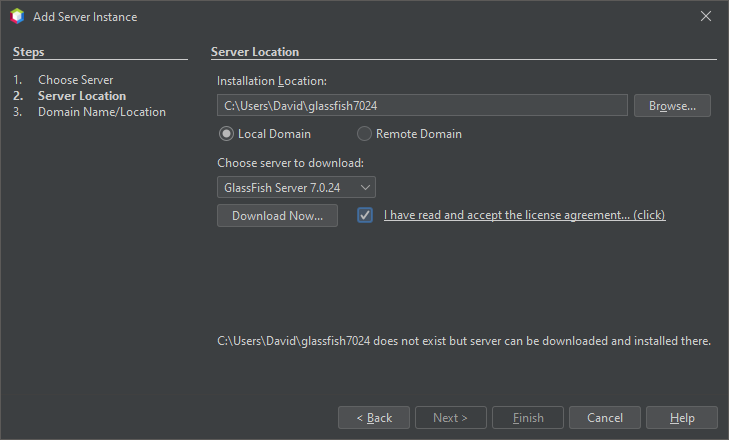
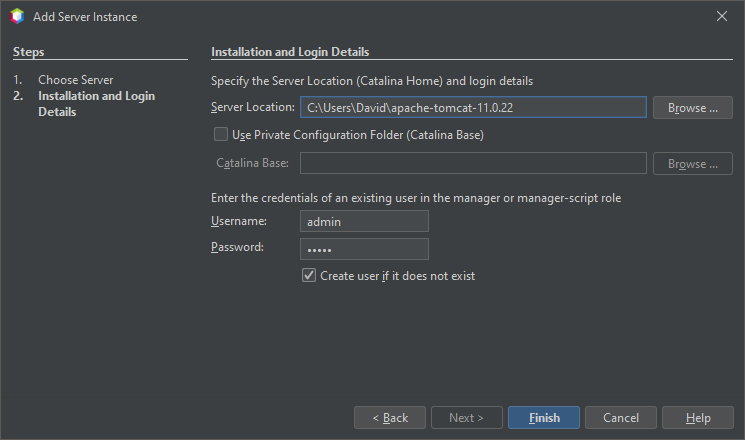
ajustes remoção glassfish

diff --git a/capitulo01JavaParaWeb.tex b/capitulo01JavaParaWeb.tex
@@ -95,14 +95,14 @@ Para que possamos utilizar código Java em nossas aplicações Web, recorremos a
 
 Muito bem. Sabemos então que se usarmos Java para desenvolver nossas aplicações Web, os componentes que são capazes de processar dados nas nossas aplicações e retornar resultados são os Servlets. Os Servlets são executados e gerenciados pelos Contêineres de Servlets, que funcionam como um Servidor Web simples, mas com alguns ``poderes'' a mais. Esses Contêineres também podem ser componentes de infraestruturas ainda mais robustas, que no caso são os Servidores de Aplicações. Um Servidor de Aplicações é como se fosse um Contêiner de Servlets com anabolizantes, pois além de implementar toda a especificação dos Servlets e as especificações ligadas a eles, esse tipo de servidor também implementa uma série de outras especificações da plataforma Jakarta EE (\textit{Enterprise Edition})\footnote{\url{https://jakarta.ee/}}, antigamente denominada Java EE, que fogem do propósito deste livro.
 
-Da mesma forma que existem navegadores e Servidores Web diferentes, adivinhe só, existem também Servidores de Aplicações e Contêineres de Servlets diferentes! Iremos utilizar a implementação de referência das especificações do Jakarta EE 10, que é feita pelo Servidor de Aplicações Eclipse GlassFish 7.0.24. Trabalharemos especificamente com essa versão, pois será a ideal para o que precisaremos fazer e que tem um melhor suporte no NetBeans. Quando estamos no mundo ``Java para Web'', várias dúvidas surgem o tempo todo, visto que existe uma infinidade de termos diferentes e que normalmente causam confusão, além de existir um ecossistema absurdamente vasto. Na próxima seção vamos aprender mais alguns detalhes teóricos e na última seção vamos realizar algumas atividades!
+Da mesma forma que existem navegadores e Servidores Web diferentes, adivinhe só, existem também Servidores de Aplicações e Contêineres de Servlets diferentes! Iremos utilizar a implementação de referência das especificações do Jakarta EE 11, que é feita pelo Contêiner de Servetls Apache Tomcat 11. Nesta edição do livro utilizaremos a versão 11.0.22, mas pode ser que na época que você estiver seguindo este material, novas versões menores da 11 possam estar disponíveis, como por exemplo 11.0.23, sendo assim, desde que você se mantenha na versão 11, não haverá nenhum problema. Trabalharemos especificamente com essa versão, pois será a ideal para o que precisaremos fazer e que tem um melhor suporte no NetBeans. Quando estamos no mundo ``Java para Web'', várias dúvidas surgem o tempo todo, visto que existe uma infinidade de termos diferentes e que normalmente causam confusão, além de existir um ecossistema absurdamente vasto. Na próxima seção vamos aprender mais alguns detalhes teóricos e na última seção vamos realizar algumas atividades!
 
 
 \section{Servlets e JSPs}
 
 Um carro serve para dirigir. Uma televisão para assistir. Uma sandália para andar. Cada um tem suas características e vão evoluindo com o tempo. Há muito tempo, quando foi inventada a televisão, a imagem que era gerada não era muito boa e era em preto e branco. Foram passando os anos e a indústria foi evoluindo o equipamento. Primeiro a imagem melhorou, depois colocaram cores, depois foram criando telas cada vez maiores, mais finas, com maior resolução, inventaram outras formas de emitir imagens, gastar menos energia elétrica e assim por diante. E daí?
 
-Tudo evolui. O que não evolui é descartado e/ou substituído. A primeira especificação dos Servlets foi lançada em 1997 e de lá para cá, a especificação foi evoluindo, permitindo que os Servlets se tornassem componentes mais versáteis e mais fáceis de utilizar. Na versão 7.0.24 do Eclipse GlassFish (perfil \textit{Web}) que implementa as especificações do Jakarta EE 10 (perfil \textit{Web}), é implementada a especificação 6.0 dos Servlets, a especificação 3.1 das JSPs (JavaServer Pages), entre outras.
+Tudo evolui. O que não evolui é descartado e/ou substituído. A primeira especificação dos Servlets foi lançada em 1997 e de lá para cá, a especificação foi evoluindo, permitindo que os Servlets se tornassem componentes mais versáteis e mais fáceis de utilizar. Na versão 11.0.22 do Apache Tomcat, que implementa as especificações do Jakarta EE 11, é implementada a especificação 6.1 dos Servlets, a especificação 6.1 das JSPs (JavaServer Pages), entre outras.
 
 Já aprendemos que os Servlets são componentes de uma aplicação Web feita em Java e que têm a capacidade de processar dados enviados a eles e gerar respostas. Um Servlet pode gerar como resposta o código HTML de uma página, entretanto essa abordagem era utilizada nas versões mais antigas dos Servlets e é totalmente desencorajada hoje em dia. Como eu disse agora há pouco, tudo evolui. Para que os desenvolvedores não precisassem mais gerar código HTML dentro do código Java de um Servlet, foram inventadas as páginas JSP. Uma página JSP é um arquivo que pode conter –e geralmente contém– código HTML e que pode interagir diretamente com algumas funcionalidades de uma aplicação Web.
 
@@ -113,7 +113,7 @@ Por causa desse comportamento de tradução das JSPs para Servlets, nós podemos
 
 \section{Preparação do Ambiente de Desenvolvimento}
 
-Nesta seção você aprenderá a instalar e configurar a IDE Apache NetBeans e o Servidor de Aplicações Eclipse GlassFish 7.0.24 (perfil \textit{Web}).
+Nesta seção você aprenderá a instalar e configurar a IDE Apache NetBeans e o Contêiner de Servlets Apache Tomcat 11.0.22.
 
 
 \subsection{Apache NetBeans}
@@ -122,20 +122,44 @@ Você conhece a linguagem Java, aprendeu a teoria e a prática da programação 
 
 \begin{enumerate}
 
-    \item Acesse o endereço: \url{https://github.com/Friends-of-Apache-NetBeans/netbeans-installers/releases/download/v30-build1/Apache-NetBeans-30.exe};
-
+    \item Acesse o endereço: \url{https://github.com/codelerity/netbeans-packages/releases/download/v30-build1/Apache-NetBeans-30.exe};
+    
     \item Ao acessar esse \textit{link}, a versão 30 do Apache NetBeans será baixada;
     
-    \item Baixou? Execute o instalador. As versões atuais dos instaladores NetBeans farão a instalação completa da IDE. Basta seguir o assistente, escolher o JDK instalado (recomendo o 17, 21 ou 25) e aguardar o fim da instalação.
+    \item Baixou? Execute o instalador. As versões atuais dos instaladores NetBeans farão a instalação completa da IDE, bastando seguir o assistente. Essa versão em questão trará uma versão do JDK consigo, no caso, a versão 26. Aguarde o fim da instalação e vamos continuar.
     
 \end{enumerate}
 
-Com o NetBeans instalado, abra-o. Caso o esteja executando pela primeira vez, uma página de boas-vindas será exibida. Você pode fechá-la se quiser, além de marcar para que não seja exibida novamente. Antes de criarmos o nosso primeiro projeto Java Web, precisamos baixar, instalar e configurar o Servidor de Aplicações Eclipse GlassFish.
+Com o NetBeans instalado, abra-o. Caso o esteja executando pela primeira vez, uma página de boas-vindas será exibida. Você pode fechá-la se quiser, além de marcar para que não seja exibida novamente. Antes de criarmos o nosso primeiro projeto Java Web, precisamos baixar, instalar e configurar Contêiner de Servlets Apache Tomcat.
 
 
-\subsection{Eclipse GlassFish}
+\subsection{Apache Tomcat}
 
-Como já dito, iremos instalar a versão 7.0.24 do Eclipse GlassFish. Iremos realizar o download e a instalação dentro do NetBeans 30. Com o NetBeans aberto, do lado esquerdo, clique na aba \textit{Services}. Nessa aba, há um nó chamado \destaque{\textit{Servers}}. Clique com o botão direito do mouse nele e escolha \destaque{\textit{Add Server...}}. Veja a Figura~\ref{fig:cap01Servers}.
+Como já dito, iremos instalar a versão 11.0.22 do Apache Tomcat. Para isso, primeiramente precisamos baixá-lo. Comece acessando o endereço \url{https://tomcat.apache.org/}. Do lado esquerdo, no menu, na seção \textit{Download}, escolha a versão 11 (Tomcat 11 - \url{https://tomcat.apache.org/download-11.cgi}). Logo abaixo, em \textit{Binary Distributions}, baixe a versão \textbf{Windows zip} se estiver usando Windows (seta vermelha na Figura~\ref{fig:cap01DownloadTomcat}) ou somente \textbf{zip} se estiver usando Linux ou outro sistema operacional baseado em UNIX (seta verde na Figura~\ref{fig:cap01DownloadTomcat}).
+
+\FloatBarrier
+\begin{figure}[!htbp]
+    \centering
+    \caption{Opções de download do Apache Tomcat}
+    \includegraphics[scale=0.7]{imagens/cap01DownloadTomcat}
+    \\\textbf{Fonte:} Elaborada pelo autor
+    \label{fig:cap01DownloadTomcat}
+\end{figure}
+\FloatBarrier
+
+Escolha onde quer salvar o arquivo e descompacte-o. No meu caso, como estou usando Windows, baixei o arquivo, salvei na minha pasta de usuário e o descompactei, ficando com o caminho \texttt{C:\textbackslash Users\textbackslash David\textbackslash apache-tomcat-11.0.22}. Veja na Figura~\ref{fig:cap01TomcatDescompactado}.
+
+\FloatBarrier
+\begin{figure}[!htbp]
+    \centering
+    \caption{Apache Tomcat descompactado}
+    \includegraphics[scale=0.7]{imagens/cap01TomcatDescompactado}
+    \\\textbf{Fonte:} Elaborada pelo autor
+    \label{fig:cap01TomcatDescompactado}
+\end{figure}
+\FloatBarrier
+
+Agora que estamos com o Tomcat baixado e descompactado, vamos registrá-lo no NetBeans. Com o NetBeans aberto, do lado esquerdo, clique na aba \textit{Services}. Nessa aba, há um nó chamado \destaque{\textit{Servers}}. Clique com o botão direito do mouse nele e escolha \destaque{\textit{Add Server...}}. Veja a Figura~\ref{fig:cap01Servers}.
 
 \FloatBarrier
 \begin{figure}[!htbp]
@@ -147,7 +171,7 @@ Como já dito, iremos instalar a versão 7.0.24 do Eclipse GlassFish. Iremos rea
 \end{figure}
 \FloatBarrier
 
-Ao clicar em \destaque{\textit{Add Server...}} o assistente para registrar o servidor no NetBeans aparecerá. No primeiro passo, mostrado na Figura~\ref{fig:cap01AddServerP01}, na lista de servidores suportados, escolha \destaque{\textit{GlassFish Server}}. Na caixa de texto \destaque{\textit{Name:}} edite o nome da instância do servidor. No meu caso, adicionei a versão do mesmo, ficando ``GlassFish Server 7.0.24''. Ao fazer isso, clique em \destaque{\textit{Next >}}.
+Ao clicar em \destaque{\textit{Add Server...}} o assistente para registrar o servidor no NetBeans aparecerá. No primeiro passo, mostrado na Figura~\ref{fig:cap01AddServerP01}, na lista de servidores suportados, escolha \destaque{\textit{Apache Tomcat or TomEE}}. Na caixa de texto \destaque{\textit{Name:}} edite o nome da instância do servidor. No meu caso, adicionei a versão do mesmo, ficando ``Apache Tomcat 11.0.22''. Ao fazer isso, clique em \destaque{\textit{Next >}}.
 
 \FloatBarrier
 \begin{figure}[!htbp]
@@ -159,7 +183,7 @@ Ao clicar em \destaque{\textit{Add Server...}} o assistente para registrar o ser
 \end{figure}
 \FloatBarrier
 
-O segundo passo do assistente precisamos definir onde os arquivos do servidor ficarão, como apresentado na Figura~\ref{fig:cap01AddServerP02}. Nesse passo, clique no botão \destaque{\textit{Browse...}} e defina onde a instalação ficará. No meu caso, escolhi a pasta \texttt{glassfish7024} dentro da pasta do meu usuário. Recomendo que você faça o mesmo. Deixa a opção \destaque{\textit{Local Domain}} selecionada, escolha a versão do servidor para download (GlassFish Server 7.0.24), marque a opção ``\textit{I have read...}'' e clique em \destaque{\textit{Download Now}}. Ao finalizar o download, uma mensagem logo abaixo do assistente indicará que foi encontrada uma instalação do servidor no local escolhido, então basta clicar em \destaque{\textit{Next >}} para realizarmos o terceiro e último passo do assistente.
+No segundo passo do assistente precisamos definir onde os arquivos do Tomcat estão, como apresentado na Figura~\ref{fig:cap01AddServerP02}. Nesse passo, clique no botão \destaque{\textit{Browse...}} e defina onde a instalação está. No meu caso, escolhi a pasta \texttt{apache-tomcat-11.0.22} dentro da pasta do meu usuário, como já expliquei anteriormente. Recomendo que você faça o mesmo. Preencha o campo \destaque{\textit{Username}} com \texttt{admin} e o campo \destaque{\textit{Password}} com \texttt{admin} também, além de marcar a opção \destaque{\textit{Create user if it does not exist}}. Isso fará com que o NetBeans configure o usuário administrador do Tomcat. Nós não precisaremos disso durante o livro, mas é bom deixar resolvido. Você pode também definir o usuário e senha que quiser, mas recomendo seguir o que eu fiz para não ter problemas depois de esquecer esses dados, caso seja necessário. Clique em \destaque{\textit{Finish}}.
 
 \FloatBarrier
 \begin{figure}[!htbp]
@@ -171,23 +195,7 @@ O segundo passo do assistente precisamos definir onde os arquivos do servidor fi
 \end{figure}
 \FloatBarrier
 
-Nesse passo, faremos a última configuração necessária, que consiste apenas em definir o nome do usuário administrador do servidor. Na Figura~\ref{fig:cap01AddServerP03} isso pode ser visto na caixa de texto \destaque{\textit{User Name:}} que está preenchida com ``admin''. Ao preencher o nome de usuário, clique em \destaque{\textit{Finish}}.
-
-\FloatBarrier
-\begin{figure}[!htbp]
-    \centering
-    \caption{Registrando um servidor no NetBeans - Passo 3}
-    \includegraphics[scale=0.7]{imagens/cap01AddServerInstanceP03}
-    \\\textbf{Fonte:} Elaborada pelo autor
-    \label{fig:cap01AddServerP03}
-\end{figure}
-\FloatBarrier
-
-Ao fazer isso, o GlassFish estará quase pronto para ser utilizado. A última coisa que precisaremos fazer é copiar o \textit{Driver Java Database Conectivity} (JDBC) do Sistema Gerenciador de Banco de Dados (SGBD) MariaDB/MySQL que usaremos nos próximos capítulos deste livro.
-
-Para isso, baixe o arquivo acessível através do \textit{link} \url{https://repo1.maven.org/maven2/org/mariadb/jdbc/mariadb-java-client/3.5.6/mariadb-java-client-3.5.6.jar} e, ao terminar de baixar, copie-o para o diretório \texttt{C:\textbackslash Users\textbackslash SeuUsuario\textbackslash glassfish7024\\\textbackslash glassfish\textbackslash domains\textbackslash domain1\textbackslash lib\textbackslash}. Agora sim, tudo pronto!
-
-Caso haja alguma dúvida, visite o \textit{link} mencionado que contém uma playlist de tutoriais para a configuração de ambientes de desenvolvimento.
+Ao fazer isso, o Tomcat estará pronto para ser utilizado. Caso haja alguma dúvida, visite o \textit{link} mencionado que contém uma playlist de tutoriais para a configuração de ambientes de desenvolvimento.
 
 
 \subsection{Primeiro Projeto Java para Web}\label{subsec:primeiroProjeto}
@@ -200,7 +208,7 @@ Agora que temos tudo configurado, iremos criar nosso primeiro projeto Java para 
     
     \item \textbf{Passo 2:} Preencha o campo \destaque{\textit{Project Name:}} com ``OlaMundoWeb'' (sem acentos, sem as aspas e tudo junto). Em \destaque{\textit{Project Location:}}, defina o diretório onde o projeto será salvo. Deixe a opção \destaque{\textit{Use Dedicated Folder for Storing Libraries}} marcada e clique no botão \destaque{\textit{Next >}};
     
-    \item \textbf{Passo 3:} Na opção \destaque{\textit{Server:}} escolha o ``GlassFish Server 7.0.24'', ou a opção com o nome que você definiu ao registrar o GlassFish. Em \destaque{\textit{Java EE Version:}} escolha ``Jakarta EE 10 Web''. Em \destaque{\textit{Context Path:}} deixe o valor padrão (/OlaMundoWeb), que é o mesmo nome que demos ao nosso projeto. Clique em \destaque{\textit{Next >}};
+    \item \textbf{Passo 3:} Na opção \destaque{\textit{Server:}} escolha o ``Apache Tomcat 11.0.22'', ou a opção com o nome que você definiu ao registrar o Tomcat. Em \destaque{\textit{Java EE Version:}} escolha ``Jakarta EE 11 Web''. Em \destaque{\textit{Context Path:}} deixe o valor padrão (/OlaMundoWeb), que é o mesmo nome que demos ao nosso projeto. Clique em \destaque{\textit{Next >}};
     
     \item \textbf{Passo 4:} No último passo, o assistente perguntará quais \textit{frameworks} nós queremos inserir no nosso projeto. Nós não vamos usar nenhum, então basta clicar em \destaque{\textit{Finish}}. Fazendo isso, o novo projeto será criado e será aberto no NetBeans, sendo que por padrão será criado um arquivo HTML (\texttt{index.html}) que será a página inicial da nossa aplicação.
     
@@ -210,7 +218,7 @@ Agora que temos tudo configurado, iremos criar nosso primeiro projeto Java para 
     Existem diversas definições para \textit{framework}, sendo que, informalmente, podemos defini-los como um conjunto de classes que incorporam uma abstração que tem como objetivo de solucionar problemas de um tipo ou domínio específico.
 \end{saibaMais}
 
-Muito bem, criamos nosso primeiro projeto. Vamos executá-lo para ver o que acontece? Na barra de ferramentas do NetBeans tem um botão com uma seta verde, igual a um botão de ``\textit{play}'' de um reprodutor de mídias. Quando você clicar nesse botão, você vai ver que várias mensagens começarão a aparecer na janela de saída do NetBeans. Essas mensagens irão mostrar para nós o que está acontecendo no momento, como a inicialização do GlassFish (caso não esteja iniciado) etc. O que está esperando? Clique lá no ``\textit{play}''. Assim que tudo estiver pronto, será aberta uma janela do seu navegador, onde será mostrado o conteúdo do \texttt{index.html}, que no nosso caso será uma página com ``TODO write content'' escrito.
+Muito bem, criamos nosso primeiro projeto. Vamos executá-lo para ver o que acontece? Na barra de ferramentas do NetBeans tem um botão com uma seta verde, igual a um botão de ``\textit{play}'' de um reprodutor de mídias. Quando você clicar nesse botão, você vai ver que várias mensagens começarão a aparecer na janela de saída do NetBeans. Essas mensagens irão mostrar para nós o que está acontecendo no momento, como a inicialização do Tomcat (caso não esteja iniciado) etc. O que está esperando? Clique lá no ``\textit{play}''. Assim que tudo estiver pronto, será aberta uma janela do seu navegador, onde será mostrado o conteúdo do \texttt{index.html}, que no nosso caso será uma página com ``TODO write content'' escrito.
 
 Muito bem! Temos nossa primeira aplicação rodando no GlassFish! Fácil não é mesmo? Por enquanto não vamos nos preocupar com a estrutura do projeto, iremos aprender os detalhes aos poucos. Vamos colocar um pouco de código HTML no nosso \texttt{index.html}? Ele deve estar aberto no NetBeans. Se não estiver, procure o arquivo \texttt{index.html} na pasta \destaque{\textit{Web Pages}} do seu projeto e clique duas vezes no arquivo para abri-lo no editor. Vamos mudar o título, escrevendo ``Meu Primeiro Projeto Java para Web'' no lugar de ``TODO supply a title'' e dentro da \textit{tag} \inlineHTMLCode{<body>} do arquivo, inserir um \textit{heading} \inlineHTMLCode{<h1>} e um parágrafo com um \textit{link} para o site do IFSP. Veja na Listagem~\thechapter.\ref{listagem:projetos/capitulo01/OlaMundoWeb/web/index.html} como deve ficar seu código.
 
@@ -252,7 +260,7 @@ Aprenderemos como criar manualmente um Servlet, para que possamos aprender algun
     
     \javaCode{olamundoweb/servlets/OlaServlet.java}{projetos/capitulo01/parciais/OlaServlet.java}
     
-    \item \textbf{Passo 4:} Para que uma classe seja um Servlet, precisamos estender a classe \texttt{HttpServlet}, que está contida no pacote \texttt{jakarta.servlet.http}\footnote{O Jakarta EE 10 usa o novo \textit{namespace} do Java EE, onde o pacote base é o \texttt{jakarta}. Antes da versão 9 o namespace base era \texttt{javax}.} e então implementar os métodos HTTP que queremos que nosso Servlet trate. Não se preocupe, ainda vamos aprender sobre os métodos HTTP, então o mais importante a saber, por enquanto, é que os métodos HTTP mais usados são o \texttt{GET} (\inlineJavaCode{doGet(...)} de \texttt{HttpServlet}) e o  \texttt{POST} (\inlineJavaCode{doPost(...)} de  \texttt{HttpServlet}). Então teremos que sobrescrever cada um desses métodos e ainda criaremos um terceiro que será invocado a partir dos outros dois. Confuso? Vamos ver como o código ficaria. Leia os comentários e copie o código da Listagem~\thechapter.\ref{listagem:projetos/capitulo01/OlaMundoWeb/src/java/olamundoweb/servlets/OlaServlet.java} para o seu editor.
+    \item \textbf{Passo 4:} Para que uma classe seja um Servlet, precisamos estender a classe \texttt{HttpServlet}, que está contida no pacote \texttt{jakarta.servlet.http}\footnote{O Jakarta EE 11 usa o novo \textit{namespace} do Java EE, onde o pacote base é o \texttt{jakarta}. Antes da versão 9 o namespace base era \texttt{javax}.} e então implementar os métodos HTTP que queremos que nosso Servlet trate. Não se preocupe, ainda vamos aprender sobre os métodos HTTP, então o mais importante a saber, por enquanto, é que os métodos HTTP mais usados são o \texttt{GET} (\inlineJavaCode{doGet(...)} de \texttt{HttpServlet}) e o  \texttt{POST} (\inlineJavaCode{doPost(...)} de  \texttt{HttpServlet}). Então teremos que sobrescrever cada um desses métodos e ainda criaremos um terceiro que será invocado a partir dos outros dois. Confuso? Vamos ver como o código ficaria. Leia os comentários e copie o código da Listagem~\thechapter.\ref{listagem:projetos/capitulo01/OlaMundoWeb/src/java/olamundoweb/servlets/OlaServlet.java} para o seu editor.
     
 \end{itemize}
 
@@ -262,17 +270,17 @@ Aprenderemos como criar manualmente um Servlet, para que possamos aprender algun
     
 Até agora criamos uma classe chamada \texttt{OlaServlet}, que estende a classe \texttt{HttpServlet}. Sobrescrevemos os métodos \inlineJavaCode{doGet(...)} e \inlineJavaCode{doPost(...)} herdados de \texttt{HttpServlet} que tratam respectivamente os métodos \texttt{GET} e \texttt{POST} do protocolo HTTP e criamos um terceiro método, chamado \inlineJavaCode{processRequest(...)}, que tem a mesma assinatura dos métodos \inlineJavaCode{doGet(...)} e \inlineJavaCode{doPost(...)} e que é invocado dentro deles. É no \texttt{processRequest} que iremos colocar o código que queremos executar, sendo que no nosso exemplo, estamos mandando imprimir na saída duas Strings: ``Olá Mundo!'' e ``Meu Primeiro Servlet!''. Ou seja, se chamarmos o Servlet usando o método \texttt{GET}, o método \inlineJavaCode{doGet(...)} será invocado e passará o controle para o método \inlineJavaCode{processRequest(...)} que irá imprimir as mensagens na saída. O mesmo acontece para o método \texttt{POST}.
 
-Muito bem, você tem um Servlet totalmente funcional, mas ai você se pergunta: ``Como vou chamar esse Servlet através do navegador?''. Então eu respondo: no código completo, você percebeu que há uma anotação chamada \inlineJavaCode{@WebServlet}? É essa anotação que vai fornecer essa informação\footnote{Antigamente precisávamos fazer o mapeamento em um arquivo \textit{Extensible Markup Language} (XML) (\url{http://pt.wikipedia.org/wiki/XML}) chamado de Descritor de Implantação (DI, em inglês \textit{Deployment Descriptor}), representado pelo arquivo \texttt{web.xml}, o que atualmente, com as versões mais novas do Jakarta/Java EE, não é mais necessário para algumas situações.}, especificamente no parâmetro \texttt{urlPatterns}. Perceba que configuramos esse parâmetro com um array de Strings com um elemento: ``/ola''. Com isso, podemos agora acessar o \texttt{OlaServlet} a partir de uma URL, que no nosso caso é ``\url{http://localhost:8080/OlaMundoWeb/ola}'', ou seja, usamos o protocolo HTTP, para a máquina \texttt{localhost} (que é o endereço da nossa máquina), na porta 8080 (que é a porta que o GlassFish ouve por padrão), para acessar a aplicação chamada \texttt{OlaMundoWeb} (isso vem do contexto que criamos no Passo 3 da Subseção~\ref{subsec:primeiroProjeto}, volte lá para dar uma olhadinha), para por fim acessar o recurso mapeado sob o nome de ``ola'' que no caso é o nosso Servlet. 
+Muito bem, você tem um Servlet totalmente funcional, mas ai você se pergunta: ``Como vou chamar esse Servlet através do navegador?''. Então eu respondo: no código completo, você percebeu que há uma anotação chamada \inlineJavaCode{@WebServlet}? É essa anotação que vai fornecer essa informação\footnote{Antigamente precisávamos fazer o mapeamento em um arquivo \textit{Extensible Markup Language} (XML) (\url{http://pt.wikipedia.org/wiki/XML}) chamado de Descritor de Implantação (DI, em inglês \textit{Deployment Descriptor}), representado pelo arquivo \texttt{web.xml}, o que atualmente, com as versões mais novas do Jakarta/Java EE, não é mais necessário para algumas situações.}, especificamente no parâmetro \texttt{urlPatterns}. Perceba que configuramos esse parâmetro com um array de Strings com um elemento: ``/ola''. Com isso, podemos agora acessar o \texttt{OlaServlet} a partir de uma URL, que no nosso caso é ``\url{http://localhost:8080/OlaMundoWeb/ola}'', ou seja, usamos o protocolo HTTP, para a máquina \texttt{localhost} (que é o endereço da nossa máquina), na porta 8080 (que é a porta que o Tomcat ouve por padrão), para acessar a aplicação chamada \texttt{OlaMundoWeb} (isso vem do contexto que criamos no Passo 2 da subseção~\ref{subsec:primeiroProjeto}, volte lá para dar uma olhadinha), para por fim acessar o recurso mapeado sob o nome de ``ola'' que no caso é o nosso Servlet. 
 
-Sei que pode parecer um pouco confuso no começo, mas logo você vai pegar o jeito da coisa. Dê um ``play'' no projeto de novo. O navegador vai abrir no endereço da aplicação novamente. Insira o ``ola'' (sem as aspas) no final da URL e tecle \texttt{<ENTER>}. O que aconteceu? Apareceu uma página em branco não foi? É claro, afinal, nosso Servlet não gera HTML, mas apenas imprime duas mensagens na saída padrão não é mesmo? Mas como podemos ver essas mensagens? Volte no NetBeans e procure, logo abaixo, uma aba chamada \destaque{\textit{Output}}. Ela provavelmente vai estar selecionada. Dentro dela devem haver outras três abas: \destaque{\textit{OlaMundoWeb (run)}} que deve estar selecionada e que é usada para mostrar o processo de construção do projeto da nossa aplicação, \destaque{\textit{Java DB Database Process}}, que exibe o \textit{status} do Java DB e, por fim, \destaque{\textit{GlassFish Server 7.0.24}}, que exibe a saída padrão do GlassFish. Clique nessa última aba e veja o que está escrito lá embaixo: as duas mensagens que enviamos para a saída padrão através do método \inlineJavaCode{System.out.println(...)} dentro do Servlet, sendo que o fim de cada linha conterá os caracteres \texttt{|\#]}\footnote{Esse sufixo é inserido automaticamente pelo servidor.}! Veja o resultado na Figura~\ref{fig:cap01SaidaGlassFish}. Volte ao navegador e tecle \texttt{<ENTER>} novamente no endereço do Servlet. Volte no NetBeans. Mais duas mensagens! Fácil não é mesmo?
+Sei que pode parecer um pouco confuso no começo, mas logo você vai pegar o jeito da coisa. Dê um ``play'' no projeto de novo. O navegador vai abrir no endereço da aplicação novamente. Insira o ``ola'' (sem as aspas) no final da URL e tecle \texttt{<ENTER>}. O que aconteceu? Apareceu uma página em branco não foi? É claro, afinal, nosso Servlet não gera HTML, mas apenas imprime duas mensagens na saída padrão não é mesmo? Mas como podemos ver essas mensagens? Volte no NetBeans e procure, logo abaixo, uma aba chamada \destaque{\textit{Output}} que exibe a saída padrão do Tomcat. Ela provavelmente vai estar selecionada, mas se não estiver clique nela e veja o que está escrito lá embaixo: as duas mensagens que enviamos para a saída padrão através do método \inlineJavaCode{System.out.println(...)} dentro do Servlet. Veja o resultado na Figura~\ref{fig:cap01SaidaTomcat}. Volte ao navegador e tecle \texttt{<ENTER>} novamente no endereço do Servlet. Volte no NetBeans. Mais duas mensagens! Fácil não é mesmo?
 
 \FloatBarrier
 \begin{figure}[!htbp]
     \centering
-    \caption{Saída do GlassFish 7.0.24}
-    \includegraphics[scale=0.9]{imagens/cap01SaidaGlassFish}
+    \caption{Saída do Tomcat 11.0.22}
+    \includegraphics[scale=0.7]{imagens/cap01SaidaTomcat}
     \\\textbf{Fonte:} Elaborada pelo autor
-    \label{fig:cap01SaidaGlassFish}
+    \label{fig:cap01SaidaTomcat}
 \end{figure}
 \FloatBarrier
     